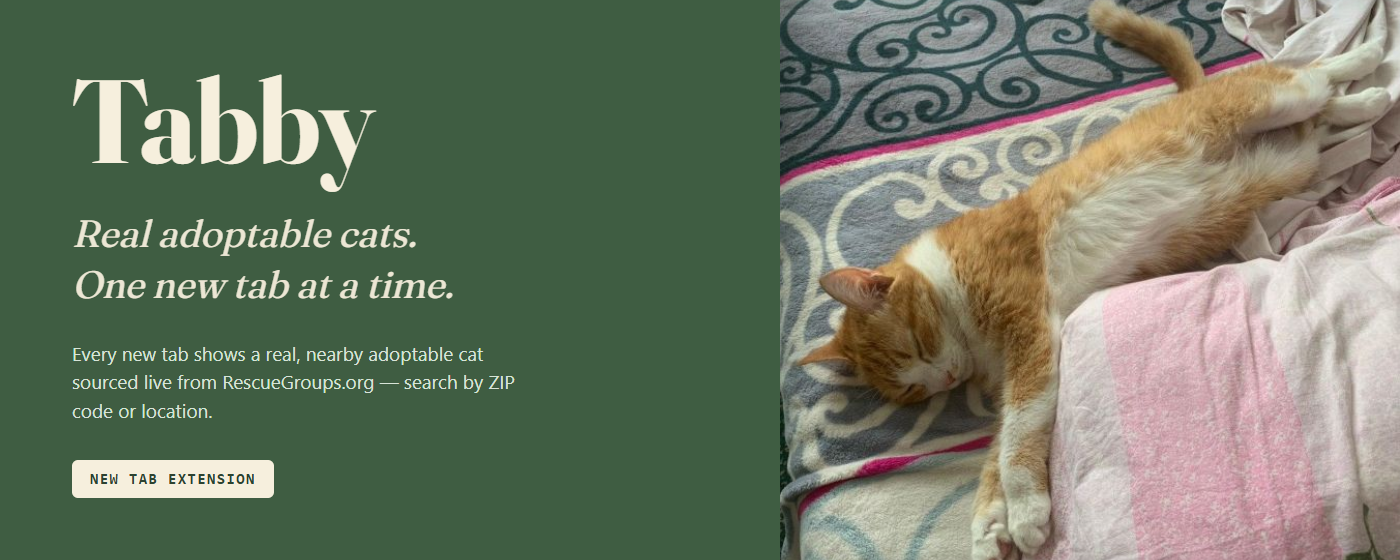
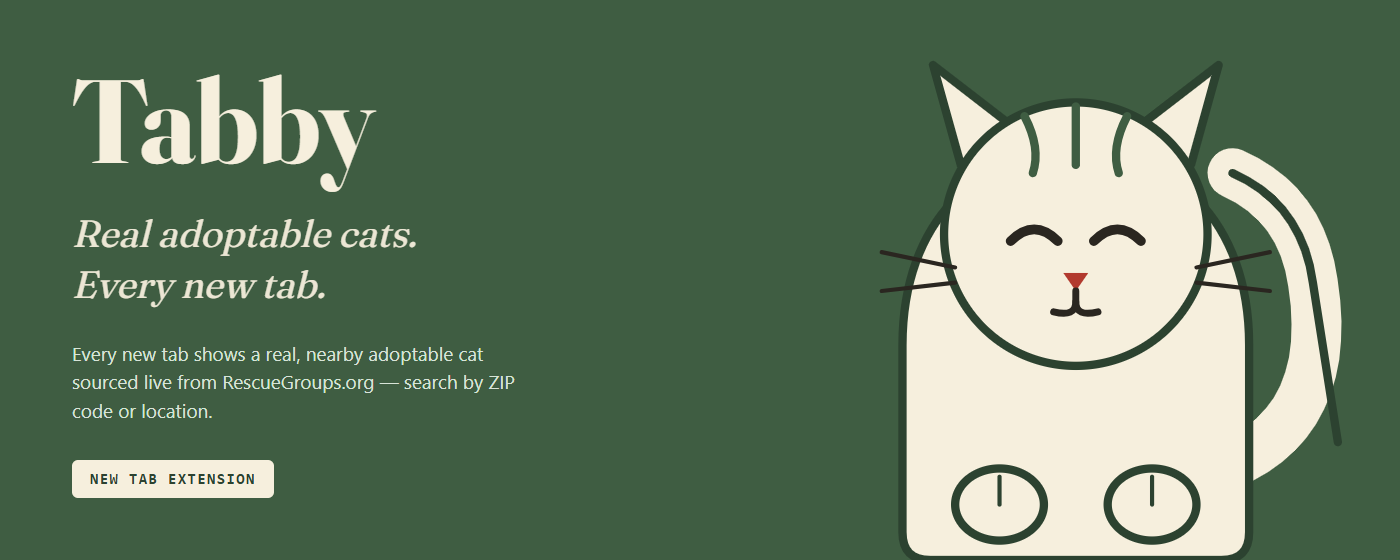
feat(store-assets): redesign promo images as illustrated mascot, not photos
Downloaded and reviewed 6 real Chrome Web Store promo images (mostly
in the pet/new-tab space) as competitive reference: every one uses
flat-vector or painterly illustrated character art, several built
around a mascot — never a real photo. The previous small tile and
marquee used a real cat photo (cataas.com placeholder), which was the
outlier against that convention.

Replaced both with a hand-authored flat-vector tabby cat mascot (SVG,
no image-generation tooling needed or available) built from the
extension's existing color tokens, so it reads as the same brand as
the icon and screenshots rather than a new one-off graphic. Iterated
on the design against rendered screenshots before finalizing: fixed
the tail initially blending into the body's own silhouette, and fixed
a small text/mascot overlap on the small tile caught by measuring
actual glyph bounding boxes (not just eyeballing it) — verified clear
margins on both after the fix. Confirmed exact pixel dimensions
(440x280 and 1400x560) via PNG header inspection.

Source HTML for both kept alongside the exported PNGs, consistent
with the previous versions.

diff --git a/store-assets/promo-small-tile.source.html b/store-assets/promo-small-tile.source.html
@@ -25,32 +25,19 @@
     overflow: hidden;
     background: #3f5d42;
   }
-  .photo-side {
+  .mascot {
     position: absolute;
-    top: 0; right: 0;
-    width: 190px;
-    height: 280px;
-    overflow: hidden;
-  }
-  .photo-side img {
-    width: 100%;
-    height: 100%;
-    object-fit: cover;
-    object-position: 50% 30%;
-    display: block;
-  }
-  .photo-side::after {
-    content: "";
-    position: absolute;
-    inset: 0;
-    box-shadow: inset 14px 0 24px -14px rgba(20, 30, 20, 0.55);
+    right: 10px;
+    bottom: 0;
+    height: 256px;
+    width: auto;
   }
   .text-side {
     position: absolute;
     top: 0; left: 0;
-    width: 250px;
+    width: 252px;
     height: 280px;
-    padding: 30px 26px;
+    padding: 30px 24px;
     display: flex;
     flex-direction: column;
     justify-content: center;
@@ -67,10 +54,11 @@
     font-family: "Fraunces", Georgia, serif;
     font-style: italic;
     font-weight: 400;
-    font-size: 19px;
+    font-size: 16px;
     color: #f6efdd;
-    line-height: 1.35;
+    line-height: 1.4;
     opacity: 0.92;
+    white-space: nowrap;
   }
   .stamp {
     margin-top: 16px;
@@ -92,12 +80,33 @@
   <div id="tile">
     <div class="text-side">
       <div class="word">Tabby</div>
-      <div class="tag">Real adoptable cats.<br>One new tab at a time.</div>
+      <div class="tag">Real adoptable cats.<br>Every new tab.</div>
       <div class="stamp">New Tab Extension</div>
     </div>
-    <div class="photo-side">
-      <img src="https://cataas.com/cat/0BTTVEVWXNyOgXYd" alt="">
-    </div>
+    <svg class="mascot" viewBox="30 10 370 375" xmlns="http://www.w3.org/2000/svg">
+      <path d="M 278 325 Q 384 300 366 185 Q 358 128 308 106" stroke="#f6efdd" stroke-width="36" stroke-linecap="round" fill="none"/>
+      <path d="M 70 365 L 70 230 C 70 140 125 90 195 90 C 265 90 320 140 320 230 L 320 365 Q 320 385 300 385 L 90 385 Q 70 385 70 365 Z" fill="#f6efdd" stroke="#2c4230" stroke-width="6"/>
+      <path d="M 384 300 Q 384 300 366 185 Q 358 128 308 106" stroke="#2c4230" stroke-width="6" stroke-linecap="round" fill="none"/>
+      <path d="M 112 100 L 92 28 L 162 82 Z" fill="#f6efdd" stroke="#2c4230" stroke-width="6" stroke-linejoin="round"/>
+      <path d="M 278 100 L 298 28 L 228 82 Z" fill="#f6efdd" stroke="#2c4230" stroke-width="6" stroke-linejoin="round"/>
+      <circle cx="195" cy="150" r="95" fill="#f6efdd" stroke="#2c4230" stroke-width="6"/>
+      <path d="M 158 65 Q 170 88 164 106" stroke="#3f5d42" stroke-width="6" stroke-linecap="round" fill="none"/>
+      <path d="M 195 58 Q 195 82 195 100" stroke="#3f5d42" stroke-width="6" stroke-linecap="round" fill="none"/>
+      <path d="M 232 65 Q 220 88 226 106" stroke="#3f5d42" stroke-width="6" stroke-linecap="round" fill="none"/>
+      <path d="M 148 155 Q 165 138 182 155" stroke="#2a2620" stroke-width="7" stroke-linecap="round" fill="none"/>
+      <path d="M 208 155 Q 225 138 242 155" stroke="#2a2620" stroke-width="7" stroke-linecap="round" fill="none"/>
+      <path d="M 186 178 L 204 178 L 195 191 Z" fill="#b23a2e"/>
+      <path d="M 195 191 L 195 199 Q 195 210 179 206" stroke="#2a2620" stroke-width="5" stroke-linecap="round" fill="none"/>
+      <path d="M 195 199 Q 195 210 211 206" stroke="#2a2620" stroke-width="5" stroke-linecap="round" fill="none"/>
+      <path d="M 108 174 L 55 163" stroke="#2a2620" stroke-width="3" stroke-linecap="round"/>
+      <path d="M 108 185 L 55 191" stroke="#2a2620" stroke-width="3" stroke-linecap="round"/>
+      <path d="M 282 174 L 335 163" stroke="#2a2620" stroke-width="3" stroke-linecap="round"/>
+      <path d="M 282 185 L 335 191" stroke="#2a2620" stroke-width="3" stroke-linecap="round"/>
+      <ellipse cx="140" cy="345" rx="32" ry="26" fill="#f6efdd" stroke="#2c4230" stroke-width="6"/>
+      <ellipse cx="250" cy="345" rx="32" ry="26" fill="#f6efdd" stroke="#2c4230" stroke-width="6"/>
+      <path d="M 140 345 L 140 325" stroke="#2c4230" stroke-width="3" stroke-linecap="round"/>
+      <path d="M 250 345 L 250 325" stroke="#2c4230" stroke-width="3" stroke-linecap="round"/>
+    </svg>
   </div>
 </body>
 </html>

diff --git a/store-assets/promo-marquee.source.html b/store-assets/promo-marquee.source.html
@@ -25,30 +25,17 @@
     overflow: hidden;
     background: #3f5d42;
   }
-  .photo-side {
+  .mascot {
     position: absolute;
-    top: 0; right: 0;
-    width: 620px;
-    height: 560px;
-    overflow: hidden;
-  }
-  .photo-side img {
-    width: 100%;
-    height: 100%;
-    object-fit: cover;
-    object-position: 50% 25%;
-    display: block;
-  }
-  .photo-side::after {
-    content: "";
-    position: absolute;
-    inset: 0;
-    box-shadow: inset 36px 0 60px -30px rgba(20, 30, 20, 0.55);
+    right: 40px;
+    bottom: 0;
+    height: 520px;
+    width: auto;
   }
   .text-side {
     position: absolute;
     top: 0; left: 0;
-    width: 780px;
+    width: 760px;
     height: 560px;
     padding: 64px 72px;
     display: flex;
@@ -101,13 +88,34 @@
   <div id="tile">
     <div class="text-side">
       <div class="word">Tabby</div>
-      <div class="tag">Real adoptable cats.<br>One new tab at a time.</div>
+      <div class="tag">Real adoptable cats.<br>Every new tab.</div>
       <div class="sub">Every new tab shows a real, nearby adoptable cat sourced live from RescueGroups.org &mdash; search by ZIP code or location.</div>
       <div class="stamp">New Tab Extension</div>
     </div>
-    <div class="photo-side">
-      <img src="https://cataas.com/cat/0mxliw1UgtFdDkU8" alt="">
-    </div>
+    <svg class="mascot" viewBox="30 10 370 375" xmlns="http://www.w3.org/2000/svg">
+      <path d="M 278 325 Q 384 300 366 185 Q 358 128 308 106" stroke="#f6efdd" stroke-width="36" stroke-linecap="round" fill="none"/>
+      <path d="M 70 365 L 70 230 C 70 140 125 90 195 90 C 265 90 320 140 320 230 L 320 365 Q 320 385 300 385 L 90 385 Q 70 385 70 365 Z" fill="#f6efdd" stroke="#2c4230" stroke-width="6"/>
+      <path d="M 384 300 Q 384 300 366 185 Q 358 128 308 106" stroke="#2c4230" stroke-width="6" stroke-linecap="round" fill="none"/>
+      <path d="M 112 100 L 92 28 L 162 82 Z" fill="#f6efdd" stroke="#2c4230" stroke-width="6" stroke-linejoin="round"/>
+      <path d="M 278 100 L 298 28 L 228 82 Z" fill="#f6efdd" stroke="#2c4230" stroke-width="6" stroke-linejoin="round"/>
+      <circle cx="195" cy="150" r="95" fill="#f6efdd" stroke="#2c4230" stroke-width="6"/>
+      <path d="M 158 65 Q 170 88 164 106" stroke="#3f5d42" stroke-width="6" stroke-linecap="round" fill="none"/>
+      <path d="M 195 58 Q 195 82 195 100" stroke="#3f5d42" stroke-width="6" stroke-linecap="round" fill="none"/>
+      <path d="M 232 65 Q 220 88 226 106" stroke="#3f5d42" stroke-width="6" stroke-linecap="round" fill="none"/>
+      <path d="M 148 155 Q 165 138 182 155" stroke="#2a2620" stroke-width="7" stroke-linecap="round" fill="none"/>
+      <path d="M 208 155 Q 225 138 242 155" stroke="#2a2620" stroke-width="7" stroke-linecap="round" fill="none"/>
+      <path d="M 186 178 L 204 178 L 195 191 Z" fill="#b23a2e"/>
+      <path d="M 195 191 L 195 199 Q 195 210 179 206" stroke="#2a2620" stroke-width="5" stroke-linecap="round" fill="none"/>
+      <path d="M 195 199 Q 195 210 211 206" stroke="#2a2620" stroke-width="5" stroke-linecap="round" fill="none"/>
+      <path d="M 108 174 L 55 163" stroke="#2a2620" stroke-width="3" stroke-linecap="round"/>
+      <path d="M 108 185 L 55 191" stroke="#2a2620" stroke-width="3" stroke-linecap="round"/>
+      <path d="M 282 174 L 335 163" stroke="#2a2620" stroke-width="3" stroke-linecap="round"/>
+      <path d="M 282 185 L 335 191" stroke="#2a2620" stroke-width="3" stroke-linecap="round"/>
+      <ellipse cx="140" cy="345" rx="32" ry="26" fill="#f6efdd" stroke="#2c4230" stroke-width="6"/>
+      <ellipse cx="250" cy="345" rx="32" ry="26" fill="#f6efdd" stroke="#2c4230" stroke-width="6"/>
+      <path d="M 140 345 L 140 325" stroke="#2c4230" stroke-width="3" stroke-linecap="round"/>
+      <path d="M 250 345 L 250 325" stroke="#2c4230" stroke-width="3" stroke-linecap="round"/>
+    </svg>
   </div>
 </body>
 </html>
